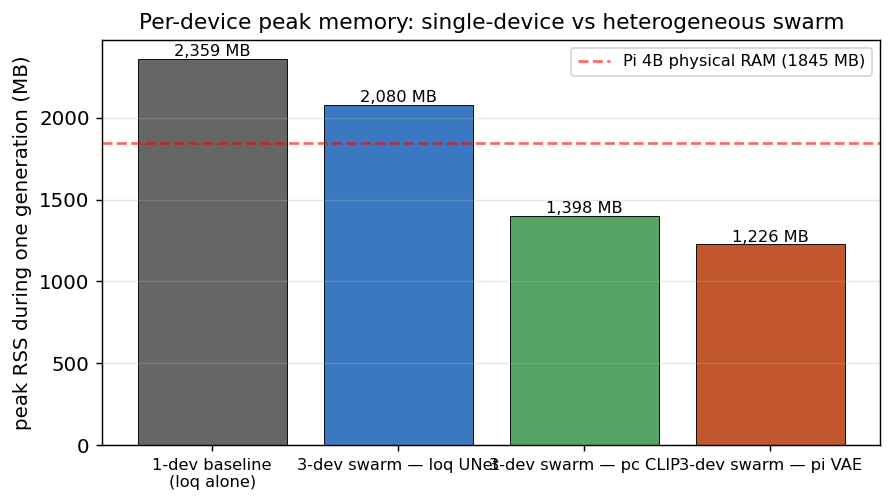
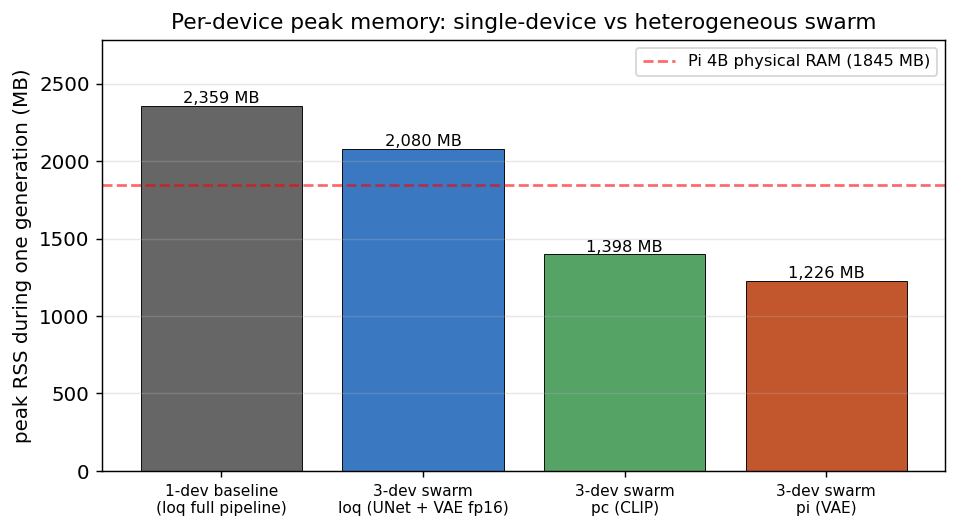
memory plot: fix overlapping x-axis labels

Changed region(s): [[0.0, 0.0298, 0.9978, 0.9841]]

diff --git a/plot_results.py b/plot_results.py
@@ -114,9 +114,11 @@ def plot_memory() -> None:
         if not math.isnan(peak):
             per_role[role] = max(per_role.get(role, 0.0), peak)
 
-    fig, ax = plt.subplots(figsize=(7, 4))
-    labels = ["1-dev baseline\n(loq alone)", "3-dev swarm — loq UNet",
-              "3-dev swarm — pc CLIP", "3-dev swarm — pi VAE"]
+    fig, ax = plt.subplots(figsize=(7.5, 4.2))
+    labels = ["1-dev baseline\n(loq full pipeline)",
+              "3-dev swarm\nloq (UNet + VAE fp16)",
+              "3-dev swarm\npc (CLIP)",
+              "3-dev swarm\npi (VAE)"]
     values = [
         baseline_peak,
         per_role.get("unet", 0.0),
@@ -133,8 +135,9 @@ def plot_memory() -> None:
                 ha="center", va="bottom", fontsize=9)
     ax.axhline(pi_total, color="red", linestyle="--", alpha=0.6,
                label=f"Pi 4B physical RAM ({pi_total} MB)")
-    ax.set_xticks(x); ax.set_xticklabels(labels, fontsize=9)
+    ax.set_xticks(x); ax.set_xticklabels(labels, fontsize=8.5)
     ax.set_ylabel("peak RSS during one generation (MB)")
+    ax.set_ylim(0, max(values) * 1.18)
     ax.set_title("Per-device peak memory: single-device vs heterogeneous swarm")
     ax.grid(True, axis="y", alpha=0.3)
     ax.legend(loc="upper right", fontsize=9)